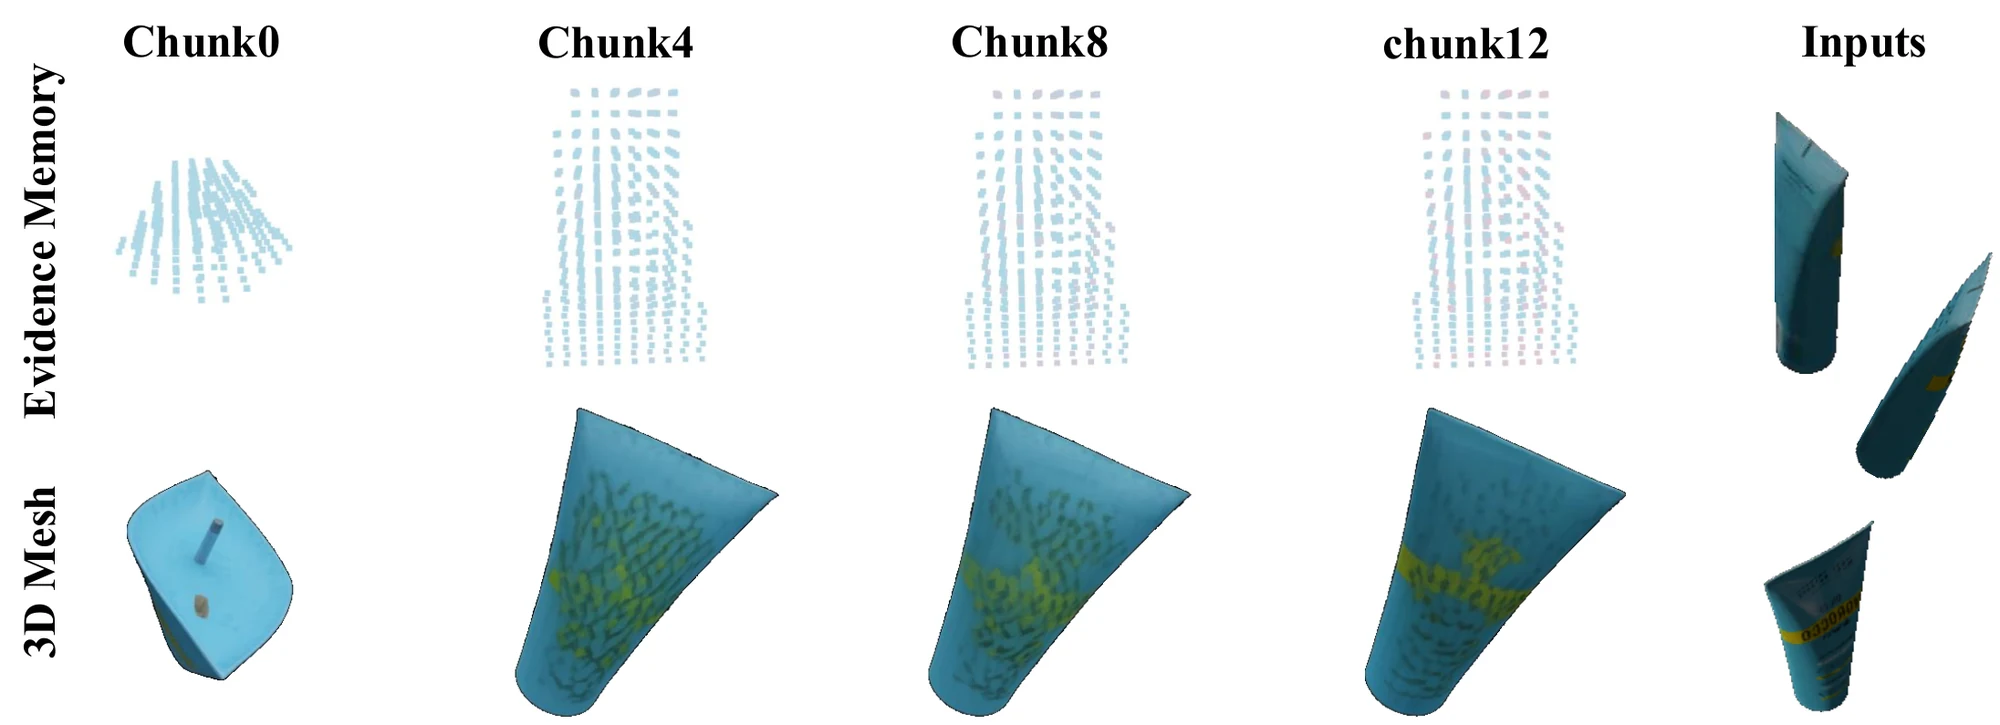
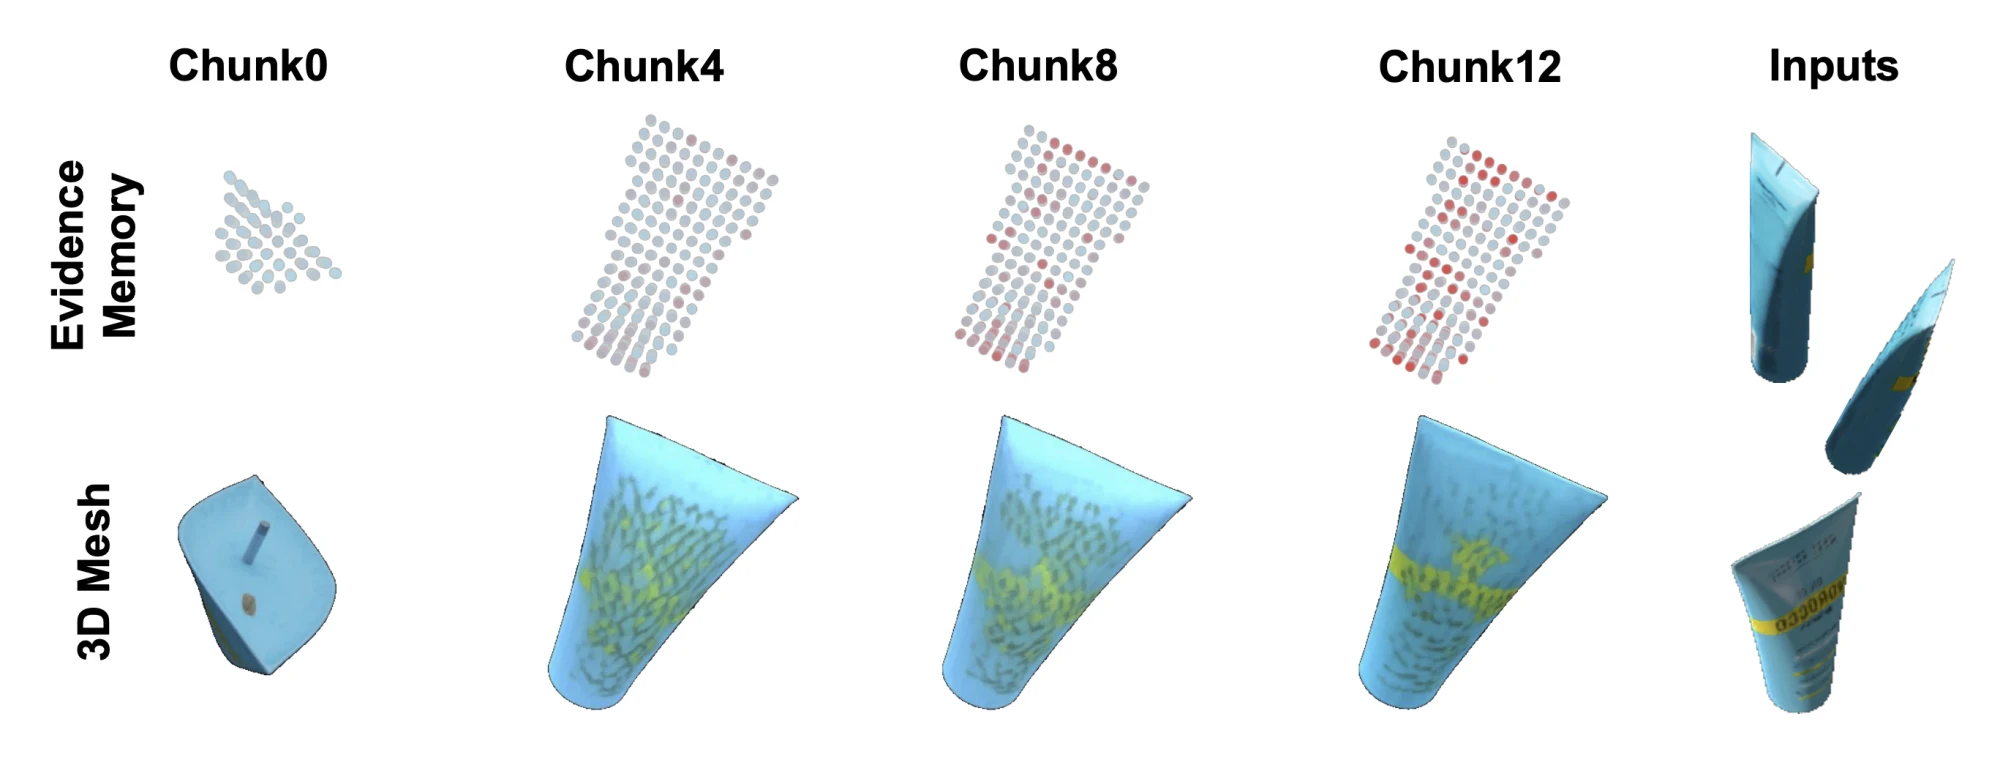
Update evidence memory progression figure
Replace the memory-progression figure with the current render from
the paper source (Project/First/Streaming3D/fig3.png), converted to
WebP at 2000px wide to match the existing asset pipeline.

The new render has a slightly taller aspect ratio, so the img
width/height hint moves from 2000x725 to 2000x760 to keep the
aspect-ratio reservation correct and avoid layout shift.

diff --git a/index.html b/index.html
@@ -296,7 +296,7 @@
         <figure class="memory-progression reveal">
           <div class="figure-surface">
             <div class="figure-toolbar"><span>Evidence over time</span><span>Chunk 0 to 12</span></div>
-            <img src="./assets/media/figures/memory-progression.webp" width="2000" height="725" alt="Evidence memory and generated 3D mesh improving from chunk 0 to chunk 12" loading="lazy">
+            <img src="./assets/media/figures/memory-progression.webp" width="2000" height="760" alt="Evidence memory and generated 3D mesh improving from chunk 0 to chunk 12" loading="lazy">
           </div>
           <figcaption>As stronger evidence arrives, retained views change and the reconstructed asset becomes more complete.</figcaption>
         </figure>